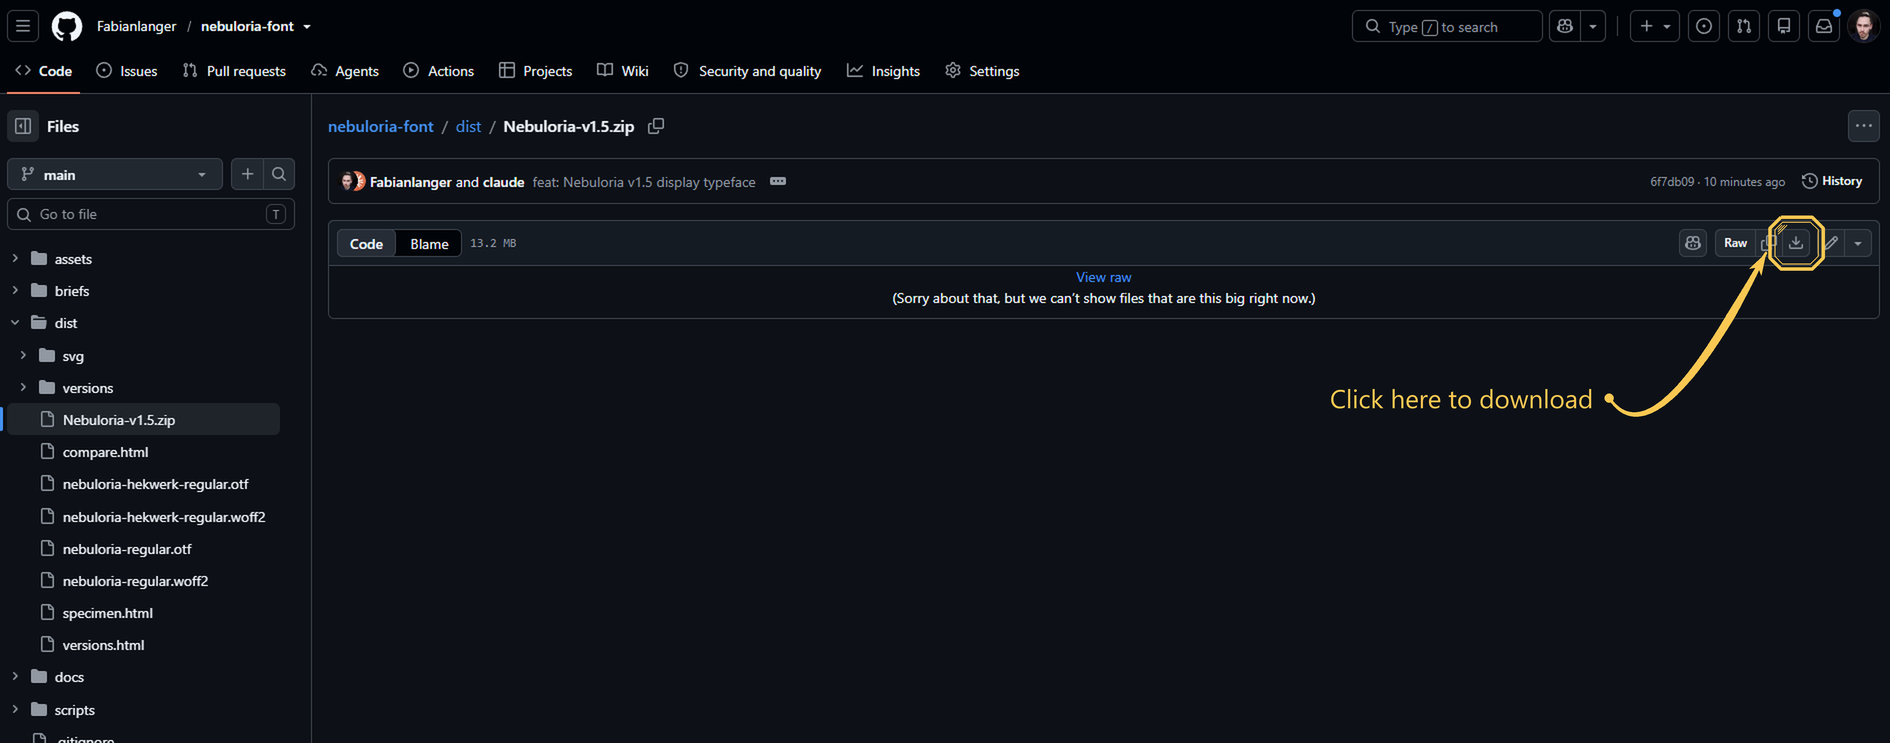
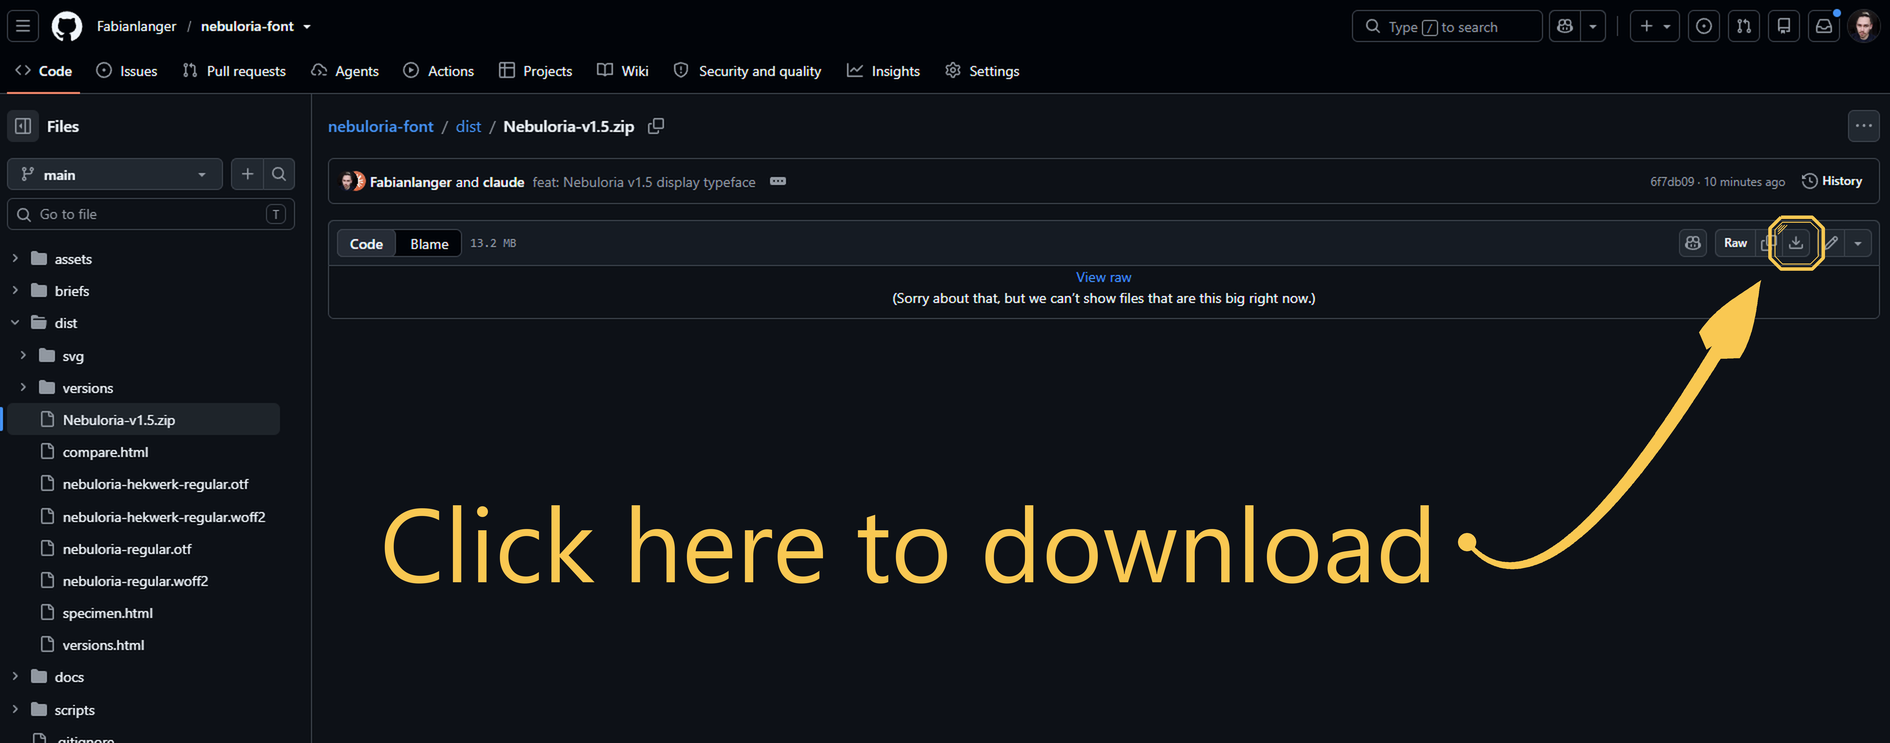
docs: bigger download instruction and leaf-shaped arrowhead
Instruction text and arrowhead 4x larger; the arrowhead is a needle-tipped
leaf with a 45-degree chamfered back, in the style of the typeface.

Changed region(s): [[0.1873, 0.3405, 0.9365, 0.8048]]

diff --git a/scripts/annotate_download.py b/scripts/annotate_download.py
@@ -39,30 +39,46 @@ def window_box(d: ImageDraw.ImageDraw, box, s: float) -> None:
 def liana(d: ImageDraw.ImageDraw, a, b, s: float) -> None:
     """Hanging curve from a to b: teardrop start, swelling stroke, needle point at b."""
     ax, ay, bx, by = a[0] * s, a[1] * s, b[0] * s, b[1] * s
-    sag = 70 * s
+    sag = 110 * s
     c1 = (ax + (bx - ax) * 0.3, max(ay, by) + sag)
     c2 = (bx - (bx - ax) * 0.15, by + sag * 0.6)
     n = 260
-    for i in range(n + 1):
+    for i in range(int(n * 0.9) + 1):     # stop before the head so the tip stays sharp
         t = i / n
         m = 1 - t
         x = m ** 3 * ax + 3 * m * m * t * c1[0] + 3 * m * t * t * c2[0] + t ** 3 * bx
         y = m ** 3 * ay + 3 * m * m * t * c1[1] + 3 * m * t * t * c2[1] + t ** 3 * by
-        w = (1.2 + 3.0 * math.sin(math.pi * min(t, 0.85) / 0.85 * 0.5) * (1 - max(0, t - 0.7) / 0.3)) * s
+        w = (2.0 + 5.0 * math.sin(math.pi * min(t, 0.85) / 0.85 * 0.5)) * s
         d.ellipse((x - w, y - w, x + w, y + w), fill=COLOR)
-    r = 4.5 * s                                              # teardrop at the start
+    r = 9 * s                                                # teardrop at the start
     d.ellipse((ax - r, ay - r, ax + r, ay + r), fill=COLOR)
-    # needle-point arrowhead along the final direction
-    t = 0.97
+    t = 0.93
     m = 1 - t
     px = m ** 3 * ax + 3 * m * m * t * c1[0] + 3 * m * t * t * c2[0] + t ** 3 * bx
     py = m ** 3 * ay + 3 * m * m * t * c1[1] + 3 * m * t * t * c2[1] + t ** 3 * by
-    ang = math.atan2(by - py, bx - px)
-    L, W = 22 * s, 7 * s
-    base = (bx - L * math.cos(ang), by - L * math.sin(ang))
-    nx, ny = -math.sin(ang) * W, math.cos(ang) * W
-    d.polygon([(bx, by), (base[0] + nx, base[1] + ny), (base[0] + L * 0.25 * math.cos(ang), base[1] + L * 0.25 * math.sin(ang)),
-               (base[0] - nx, base[1] - ny)], fill=COLOR)
+    leaf_head(d, (bx, by), math.atan2(by - py, bx - px), s)
+
+
+def leaf_head(d: ImageDraw.ImageDraw, tip, ang, s: float) -> None:
+    """Arrowhead in Nebuloria style: a leaf with a needle tip, curved flanks and a 45-degree cut back."""
+    L, W = 88 * s, 24 * s
+    ux, uy = math.cos(ang), math.sin(ang)          # forward
+    nx, ny = -uy, ux                               # side
+
+    def p(f, g):                                   # f along (0 = back, 1 = tip), g across
+        return (tip[0] - L * (1 - f) * ux + g * nx, tip[1] - L * (1 - f) * uy + g * ny)
+
+    pts = []
+    for i in range(41):                            # upper flank: back corner -> tip, convex
+        f = 0.12 + 0.88 * i / 40
+        pts.append(p(f, W * math.sin(math.pi * (1 - f) / 0.88 * 0.5) ** 1.1))
+    for i in range(41):                            # lower flank: tip -> back corner
+        f = 1 - 0.88 * i / 40
+        pts.append(p(f, -W * math.sin(math.pi * (1 - f) / 0.88 * 0.5) ** 1.1))
+    pts.append(p(0.0, -W * 0.35))                  # 45-degree chamfered back cut, notch to the stem
+    pts.append(p(0.22, 0))
+    pts.append(p(0.0, W * 0.35))
+    d.polygon(pts, fill=COLOR)
 
 
 def annotate(src: Path, dst: Path, box, label: str, label_at) -> Path:
@@ -70,12 +86,12 @@ def annotate(src: Path, dst: Path, box, label: str, label_at) -> Path:
     big = base.resize((base.width * SS, base.height * SS), Image.LANCZOS)
     d = ImageDraw.Draw(big)
     window_box(d, box, SS)
-    font = ImageFont.truetype(FONT, 26 * SS)
+    font = ImageFont.truetype(FONT, 104 * SS)
     lx, ly = label_at
     d.text((lx * SS, ly * SS), label, font=font, fill=COLOR)
     tw = d.textlength(label, font=font) / SS
-    start = (lx + tw + 16, ly + 18)
-    end = (box[0] - 19, (box[1] + box[3]) / 2 + 10)
+    start = (lx + tw + 30, ly + 72)
+    end = (box[0] - 24, box[3] + 26)
     liana(d, start, end, SS)
     out = big.resize(base.size, Image.LANCZOS)
     dst.parent.mkdir(parents=True, exist_ok=True)
